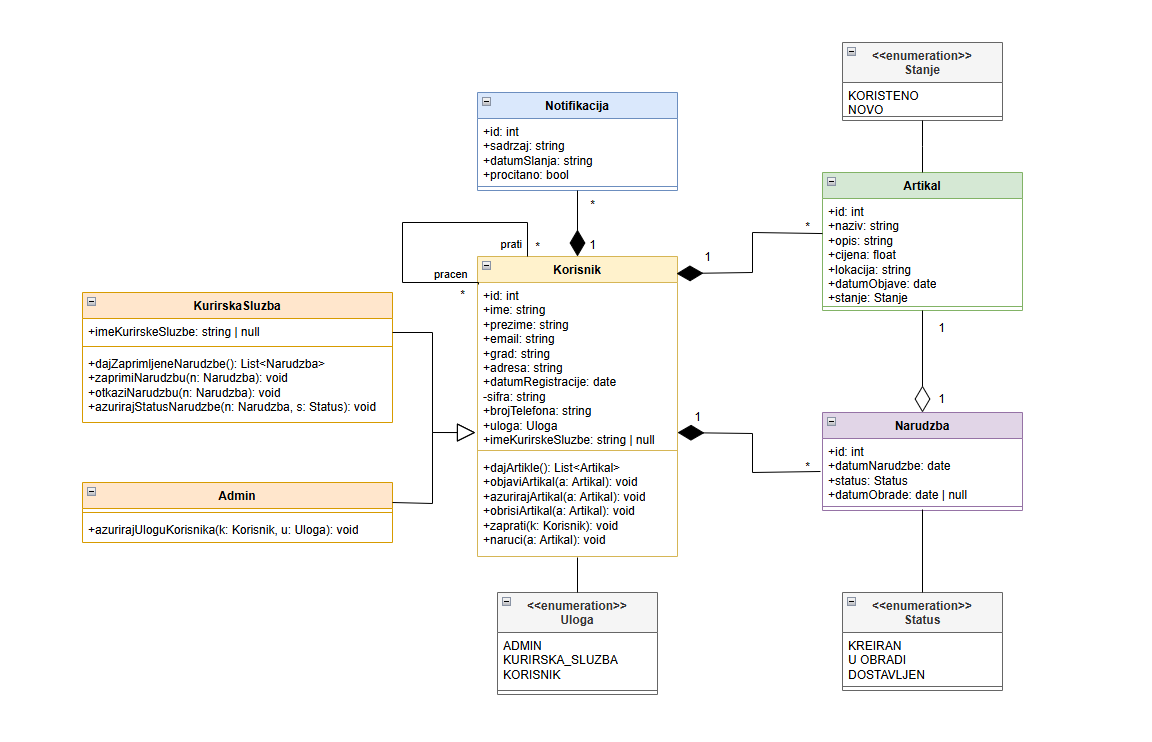
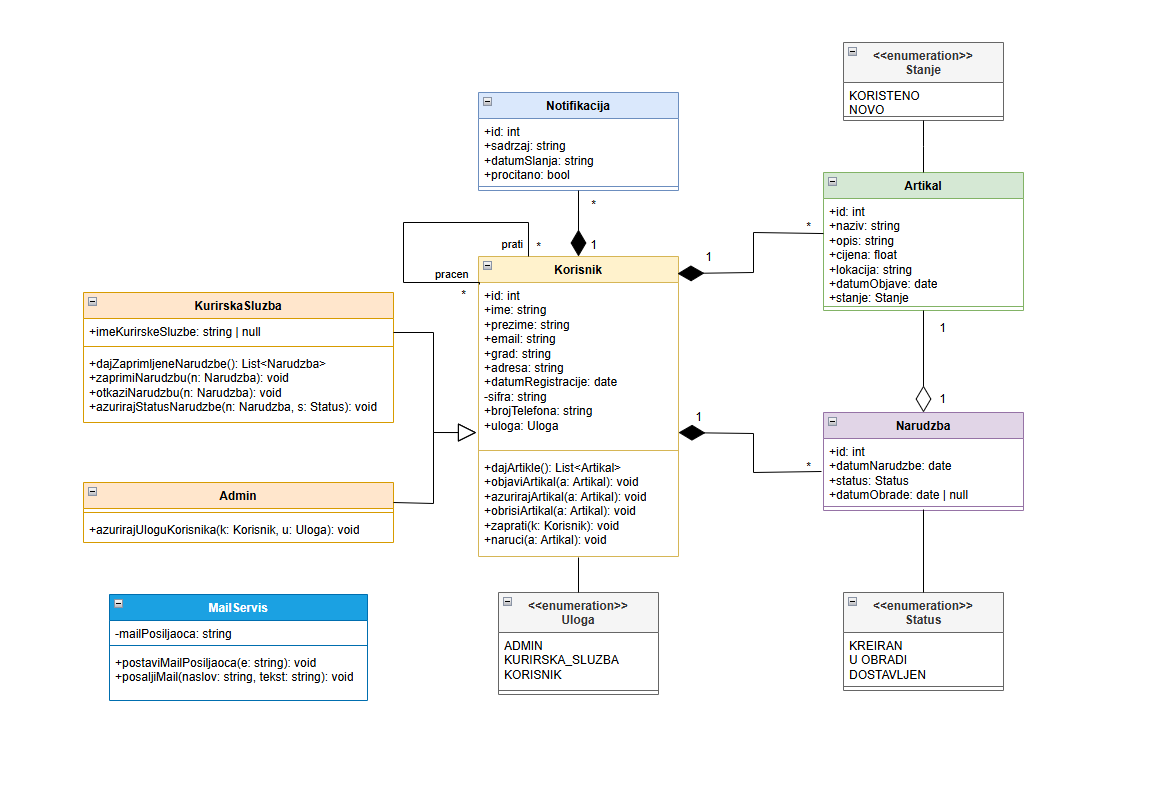
malo updateanje dijagrama klasa

diff --git a/SOLIDprincipi.md b/SOLIDprincipi.md
@@ -1,0 +1,43 @@
+# SOLID principi dijagrama klasa
+
+## S - single responsibility princip
+
+*Svaka metoda/klasa mora imati samo jednu odgovornost*
+
+Svaka klasa je cjelina za sebe, i svaka metoda unutar pojedine klase ima jednu svrhu.
+Svaka metoda unutar klasa poštuje objektno orijentisanu paradigmu u smislu da se programer preko te metode obraća instanci klase nad kojom se ista metoda nalazi.
+Ovo je razlog postojanja klase MailService, kako bi se funkcionalnost slanja mejla tretirala kao propratna pojava, i ne kao odgovornost ostalih funkcija koji je mogu pozvati kao neuspojavu (side effect).
+
+## O - open/closed princip
+
+*Klase moraju biti otvorene za proširenja, a zatvorene za modifikaciju*
+
+Klase sadržavaju osnovne atribute i metode, čime su lahke za proširiti.
+Primjer toga su enumeracije, koje je lahko proširiti dodatnim ulogama, statusima ili stanjima.
+
+## L - Liskov substitution princip
+
+*Izvedene klase se trebaju moći proslijediti svugdje gdje može i bazna*
+
+Postojanje generalizacijske veze između admina, kurirske službe i korisnika nam to dozvoljava.
+Primjer toga je funkcionalnost praćenja korisnika, što je radnja nad korisnicima, ali se može primijeniti na kurirske službe i čak i admina.
+
+## I - Interface segregation princip
+
+*Klijent ne treba ovisiti od interfejsa sa metodama koje nikada neće koristiti*
+
+Kurirska služba je jedina klasa koja će implementirati slanje maila, pa nema potrebe da ostale klase znaju i vežu se za MailServis.
+Isto tako, umjesto da čitav korisnik implementira funkcije obrade narudžbi, odvojeno su te metode implementirane u klasi kurirske službe.
+Na taj način je izbjegnuto pretrpavanje korisnika nepotrebnim funkcionalnostima.
+
+## D - Dependency inversion princip
+
+*Umjesto da konkretne klase ovise o konkretnim klasama, trebaju ovisiti o interfejsima ili apstraktnim klasama*
+
+Ovim se postiže decoupling klasa i olakšava povezivanje funkcionalnosti.
+Ovo se jedino na našem primjeru može vidjeti na klasi MailServis.
+Ovdje se samo exposea funkcionalnost slanja maila, bez ulaženja u detalje izvedbe slanja maila i mail providera koji se može koristiti.
+Također kao primjer open/closed principa, mail provider se lahko može dodati pored postojećih, i promijeniti vrlo lahko, ako se stvari lijepo implementiraju.
+
+
+
